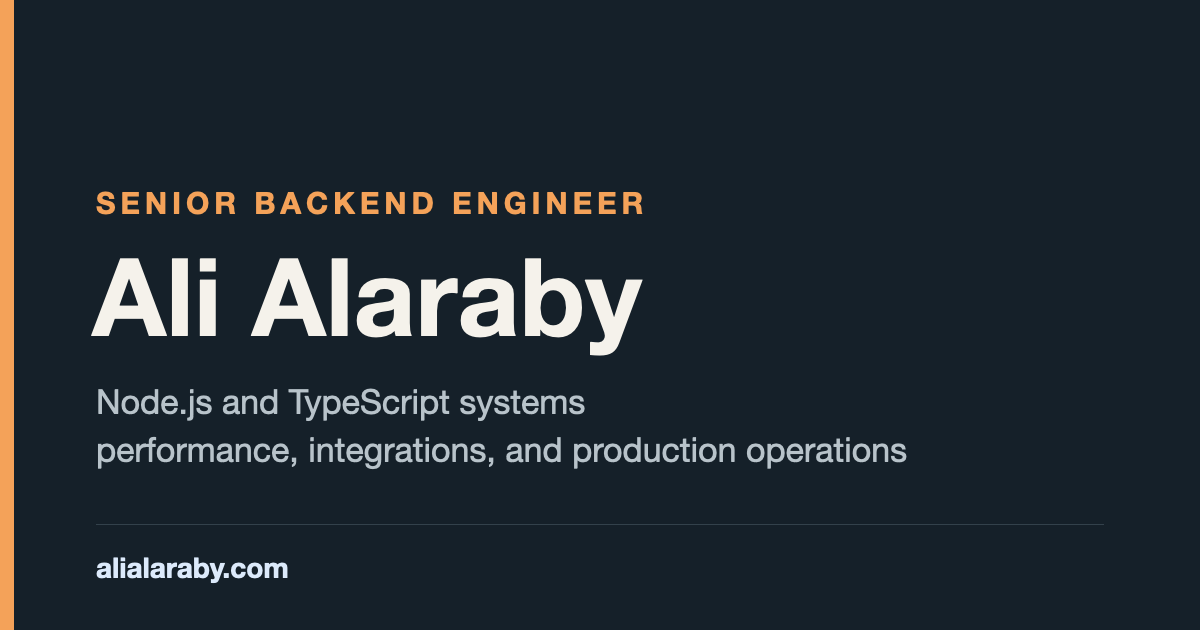
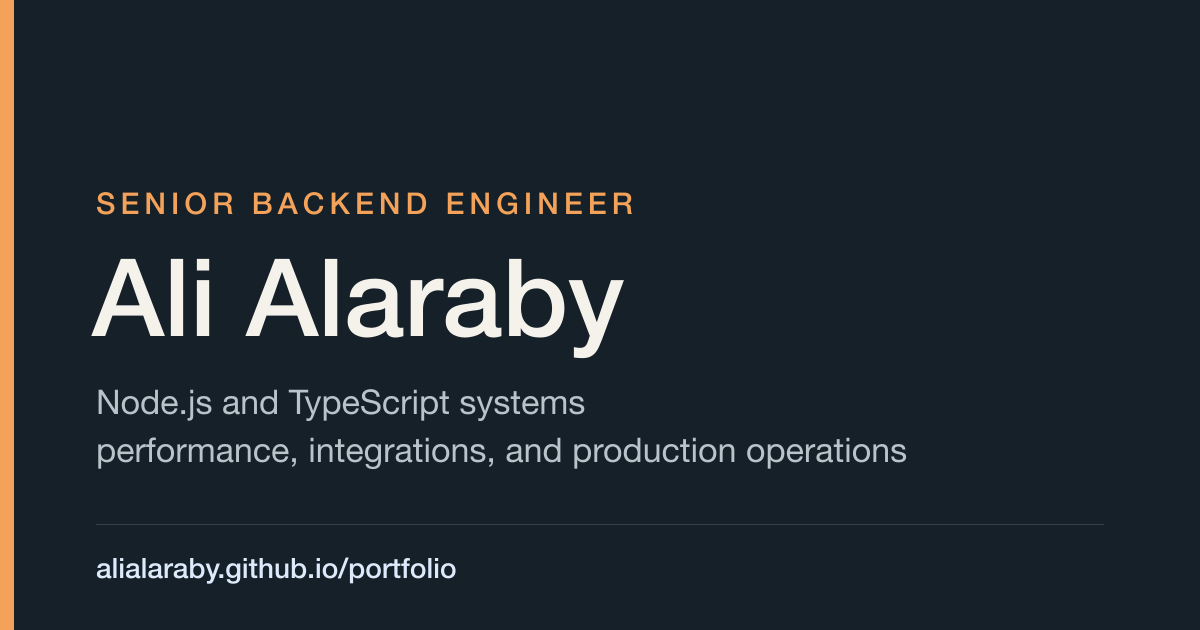
feat: update site configuration for GitHub Pages deployment and adjust related documentation

diff --git a/tests/seo.test.ts b/tests/seo.test.ts
@@ -4,7 +4,7 @@ import { join, relative, resolve, sep } from "node:path";
 import { JSDOM } from "jsdom";
 import { describe, expect, it } from "vitest";
 
-import { site } from "../src/config/site";
+import { absoluteUrl, site } from "../src/config/site";
 
 const distDir = resolve("dist");
 const siteUrl = new URL(site.url);
@@ -97,7 +97,7 @@ describe.skipIf(!buildExists())("built SEO and discovery", () => {
 
     for (const file of contentPages) {
       const document = parseHtml(file);
-      const canonical = new URL(toRoute(file), siteUrl).href;
+      const canonical = absoluteUrl(toRoute(file));
 
       expect(
         document.querySelector('link[rel="canonical"]')?.getAttribute("href"),
@@ -171,7 +171,7 @@ describe.skipIf(!buildExists())("built SEO and discovery", () => {
       const article = blocks.find((data) =>
         typesOf(data).includes("TechArticle"),
       );
-      expect(article?.url, file).toBe(new URL(toRoute(file), siteUrl).href);
+      expect(article?.url, file).toBe(absoluteUrl(toRoute(file)));
       expect(article?.headline, file).toBe(
         document.querySelector("h1")?.textContent,
       );
@@ -194,7 +194,7 @@ describe.skipIf(!buildExists())("built SEO and discovery", () => {
       (match) => match[1] ?? "",
     );
     const expected = contentPages
-      .map((file) => new URL(toRoute(file), siteUrl).href)
+      .map((file) => absoluteUrl(toRoute(file)))
       .sort();
     expect([...locs].sort()).toEqual(expected);
 

diff --git a/src/config/site.ts b/src/config/site.ts
@@ -3,13 +3,24 @@ export const site = {
   title: "Ali Alaraby — Senior Backend Engineer",
   description:
     "Senior Backend Engineer with 6+ years of experience building and improving Node.js and TypeScript systems across performance, integrations, and production operations.",
-  url: "https://alialaraby.com",
+  origin: "https://alialaraby.github.io",
+  basePath: "/portfolio",
+  url: "https://alialaraby.github.io/portfolio/",
   locale: "en",
   ogImage: {
-    path: "/og/ali-alaraby-og.png",
+    path: "og/ali-alaraby-og.png",
     width: 1200,
     height: 630,
     alt: "Ali Alaraby — Senior Backend Engineer",
     type: "image/png",
   },
 } as const;
+
+export const withBasePath = (path = "/"): string => {
+  if (path === site.basePath || path.startsWith(`${site.basePath}/`))
+    return path;
+  return `${site.basePath}/${path.replace(/^\//, "")}`;
+};
+
+export const absoluteUrl = (path = "/"): string =>
+  new URL(withBasePath(path), `${site.origin}/`).href;

diff --git a/src/pages/sitemap.xml.ts b/src/pages/sitemap.xml.ts
@@ -1,16 +1,15 @@
 import { getCollection } from "astro:content";
 import type { APIRoute } from "astro";
-import { site } from "../config/site";
+import { absoluteUrl } from "../config/site";
 
-export const GET: APIRoute = async ({ site: siteUrl }) => {
-  const base = siteUrl ?? new URL(site.url);
+export const GET: APIRoute = async () => {
   const entries = (await getCollection("caseStudies")).sort(
     (left, right) => left.data.order - right.data.order,
   );
 
   const paths = ["/", ...entries.map((entry) => `${entry.data.route}/`)];
   const urls = paths
-    .map((path) => `  <url><loc>${new URL(path, base).href}</loc></url>`)
+    .map((path) => `  <url><loc>${absoluteUrl(path)}</loc></url>`)
     .join("\n");
 
   const body = [

diff --git a/tests/config.test.ts b/tests/config.test.ts
@@ -8,6 +8,12 @@ describe("core configuration", () => {
     expect(config.output).toBe("static");
   });
 
+  it("targets the GitHub Pages project path", () => {
+    expect(config.site?.toString()).toBe("https://alialaraby.github.io");
+    expect(config.base).toBe("/portfolio");
+    expect(site.url).toBe("https://alialaraby.github.io/portfolio/");
+  });
+
   it("provides non-empty site metadata", () => {
     expect(site.title).toContain("Senior Backend Engineer");
     expect(site.description.length).toBeGreaterThan(80);

diff --git a/src/styles/global.css b/src/styles/global.css
@@ -13,7 +13,8 @@
 
 @font-face {
   font-family: "IBM Plex Mono";
-  src: url("/fonts/ibm-plex/ibm-plex-mono-regular-latin1.woff2") format("woff2");
+  src: url("/fonts/ibm-plex/ibm-plex-mono-regular-latin1.woff2")
+    format("woff2");
   font-display: swap;
   font-style: normal;
   font-weight: 400;

diff --git a/astro.config.ts b/astro.config.ts
@@ -1,7 +1,8 @@
 import { defineConfig } from "astro/config";
 
 export default defineConfig({
-  site: "https://alialaraby.com",
+  site: "https://alialaraby.github.io",
+  base: "/portfolio",
   output: "static",
   build: { format: "directory" },
   devToolbar: { enabled: false },

diff --git a/tests/performance.test.ts b/tests/performance.test.ts
@@ -133,7 +133,6 @@ describe.skipIf(!buildExists())("built performance and artifacts", () => {
       /^og\/[\w.-]+\.(png|svg)$/,
       /^robots\.txt$/,
       /^sitemap\.xml$/,
-      /^CNAME$/,
     ];
 
     for (const file of files) {

diff --git a/docs/deployment.md b/docs/deployment.md
@@ -11,8 +11,9 @@ builds `dist`, uploads the official Pages artifact, and deploys it with GitHub's
 action. Every third-party action is pinned to an immutable commit SHA. The workflow can run only
 from `main`, requires the `confirm_production` input, and does not run automatically on pushes.
 
-`public/CNAME` places `alialaraby.com` in the generated artifact. The repository Pages setting is
-still authoritative: the file alone does not register or verify the domain.
+Astro's `site` and `base` settings target `https://alialaraby.github.io/portfolio/`. Internal links,
+fonts, metadata, sitemap, robots policy, and the share card all use that project path. No custom
+domain or `CNAME` file is configured.
 
 GitHub Pages provides one production environment for this repository, not a separate native preview
 URL. Review pull-request CI and the local production build before the first manual deployment. Later
@@ -24,17 +25,14 @@ changes should follow the same sequence: pull request, green quality checks, mer
 2. Open the repository on GitHub and go to **Settings → Pages**.
 3. Under **Build and deployment**, set **Source** to **GitHub Actions**. Do not select a branch-based
    publishing source and do not add another generated workflow.
-4. Under **Custom domain**, enter `alialaraby.com` and save it. At the DNS provider, create the exact
-   apex records GitHub currently documents, plus the documented `www` CNAME to
-   `alialaraby.github.io` if `www.alialaraby.com` should redirect to the apex.
-5. Wait for GitHub's DNS check to succeed. The site uses root-relative assets for this approved
-   domain, so do not use the `/portfolio` project URL as a substitute deployment target.
-6. Open **Settings → Environments → github-pages** after GitHub creates it. Restrict deployments to
+4. Remove `alialaraby.com` from **Custom domain** and leave the field empty. No DNS configuration is
+   required for the GitHub-provided project domain.
+5. Open **Settings → Environments → github-pages** after GitHub creates it. Restrict deployments to
    `main`; optionally add required reviewers if your GitHub plan supports them.
-7. Open **Actions → Deploy GitHub Pages → Run workflow**. Select `main`, enable
+6. Open **Actions → Deploy GitHub Pages → Run workflow**. Select `main`, enable
    `confirm_production`, and run it.
-8. Wait for both the `build` and `deploy` jobs to pass, then verify `https://alialaraby.com`.
-9. Enable **Enforce HTTPS** after GitHub issues the certificate, then complete the checklist below.
+7. Wait for both jobs to pass, then verify `https://alialaraby.github.io/portfolio/` and complete the
+   checklist below. GitHub serves its own domain over HTTPS automatically.
 
 No personal access token or repository secret is required. The workflow uses GitHub's short-lived
 OIDC token and grants write permissions only to the deployment job.
@@ -44,22 +42,18 @@ OIDC token and grants write permissions only to the deployment job.
 - [ ] `/`, all three `/work/` routes, and an unknown route render correctly.
 - [ ] `sitemap.xml`, `robots.txt`, the Open Graph image, fonts, and the versioned CV return `200`.
 - [ ] The unknown route returns `404` and contains `noindex, follow`.
-- [ ] Canonical and Open Graph URLs use `https://alialaraby.com`.
+- [ ] Canonical and Open Graph URLs use `https://alialaraby.github.io/portfolio/`.
 - [ ] Email, GitHub, LinkedIn, project, previous/next, and CV links work.
 - [ ] Responsive checks pass at 320, 480, 768, 1024, and 1440 px.
 - [ ] Keyboard navigation, skip link, visible focus, 200% zoom, and reduced motion remain usable.
 - [ ] Chromium and WebKit smoke checks pass.
 - [ ] Lighthouse scores are at least 95 in all four categories on `/` and one case study.
 
-## Custom-domain verification
+## Future custom domain
 
-Use GitHub's current DNS values displayed in Settings rather than copying old addresses from a
-guide. DNS propagation and certificate issuance can take time. After deployment, verify HTTP-to-HTTPS
-behavior, apex and `www`, all routes and assets, the CV, `robots.txt`, and `sitemap.xml`. Confirm
-there is no redirect loop.
-
-The canonical URL is already `https://alialaraby.com`, so the temporary `github.io` URL should not
-be submitted to search engines.
+If a domain is purchased later, update `site` and `base` in `astro.config.ts`, `src/config/site.ts`,
+root-relative font paths, robots metadata, and the share card together. Add the custom domain in
+Pages settings and follow GitHub's current DNS instructions before changing canonical URLs.
 
 ## Rollback
 
@@ -68,15 +62,13 @@ GitHub Pages deployments are tied to workflow runs and commits. If a later launc
 1. Revert the faulty commit through a pull request and run the quality workflow.
 2. Merge the revert, then manually run **Deploy GitHub Pages** from `main` again.
 3. Verify the homepage, one case study, CV, sitemap, custom domain, and HTTPS.
-4. If the first custom-domain launch itself is unsafe, remove the custom domain in Pages settings and
-   restore the DNS records recorded immediately before cutover while the corrective PR is prepared.
 
 Do not force-push `main`, delete successful workflow runs, or bypass the quality gate during a
 rollback.
 
 ## Current state
 
-- GitHub Pages workflow and custom-domain artifact: ready locally.
+- GitHub Pages project-site workflow and `/portfolio` base-path support: ready locally.
 - Repository Pages source and `github-pages` environment: owner setup pending.
 - First manual deployment: pending.
-- Custom-domain DNS and HTTPS: pending owner configuration before the first deployment.
+- GitHub Pages custom-domain field: owner must remove the unavailable domain before deployment.

diff --git a/docs/decisions.md b/docs/decisions.md
@@ -216,8 +216,9 @@
 
 - **Context:** Phase 9 requires unique metadata, canonical and social presentation, valid sitemap and
   robots behavior, and honest structured data. The approved production domain
-  (`https://alialaraby.com`) and a social card are now available, and the project still avoids
-  runtime dependencies and WordPress-style plugins.
+  (`https://alialaraby.com`) was initially proposed and a social card was available, and the project
+  still avoids runtime dependencies and WordPress-style plugins. D016 later records the GitHub Pages
+  URL selected when the proposed domain proved unavailable.
 - **Selected:** Record the domain once in `src/config/site.ts` and `astro.config.ts`. Emit canonical,
   Open Graph, and Twitter metadata from `BaseLayout.astro`. Add a dependency-free `sitemap.xml`
   endpoint driven by the case-study collection and a static `robots.txt`. Publish JSON-LD as
@@ -260,11 +261,13 @@
 - **Selected:** Use a dedicated, manually dispatched GitHub Actions workflow that can run only from
   `main` with an affirmative production input. It repeats all quality checks, builds `dist`, and uses
   immutable commits of GitHub's official configure, artifact, and deploy actions. Commit the approved
-  apex domain as `public/CNAME`; keep Pages settings, deployment, DNS, and HTTPS as owner steps.
+  GitHub project URL as the canonical base; keep Pages settings and deployment as owner steps.
 - **Alternatives:** Branch-based publishing was rejected because it needs generated output committed
   to the repository; automatic deployment on every push was rejected because production requires an
   explicit owner action; Vercel was started but abandoned before authentication or external changes.
 - **Consequences:** Deployment intent is reviewable and no long-lived credential is required. GitHub
   Pages offers no separate native preview URL for this repository, so green pull-request CI and the
   locally reviewed production artifact are the pre-deployment gate. Pages settings, the first manual
-  run, DNS, HTTPS, WebKit, and live endpoint checks remain owner-controlled external steps.
+  run, WebKit, and live endpoint checks remain owner-controlled external steps. A later review found
+  that the proposed custom domain was unregistered, so the initial launch uses
+  `https://alialaraby.github.io/portfolio/` with explicit base-path handling and no `CNAME`.

diff --git a/docs/roadmap.md b/docs/roadmap.md
@@ -346,10 +346,11 @@ Evidence in progress:
 
 - Manually dispatched `.github/workflows/pages.yml` builds, revalidates, uploads, and deploys the
   site using immutable pins for GitHub's official Pages actions
-- `public/CNAME` carries the approved apex domain in the generated artifact
+- Astro, application links, fonts, metadata, sitemap, robots, and social artwork target the GitHub
+  project URL at `https://alialaraby.github.io/portfolio/`
 - [GitHub Pages setup, domain, launch-verification, and rollback runbook](deployment.md)
-- Current-state check confirmed that the production domain does not yet return public A or CNAME
-  records; repository settings and DNS remain owner actions
+- The unavailable custom domain was removed; clearing it in repository Pages settings and running
+  the first deployment remain owner actions
 
 ## Post-launch backlog
 
@@ -448,5 +449,6 @@ Potential work only after launch evidence justifies it:
 - **17 September 2026 — Phase 11 started:** created `feat/phase-11-deployment-launch` from current
   `main`; added a manually authorized GitHub Pages workflow, custom-domain artifact, and
   deployment/domain/rollback runbook. Confirmed that no environment variables or repository secrets
-  are required and the approved domain has no public A or CNAME response yet. Repository settings,
-  the first deployment, DNS, and HTTPS remain explicit owner actions.
+  are required. After confirming the proposed custom domain was unavailable, retargeted the complete
+  site to `https://alialaraby.github.io/portfolio/` and removed the DNS/custom-domain artifact.
+  Repository Pages settings and the first deployment remain explicit owner actions.

diff --git a/docs/seo.md b/docs/seo.md
@@ -1,7 +1,7 @@
 # SEO and discovery
 
 Search and social metadata for the static portfolio, verified in Phase 9. The production domain is
-`https://alialaraby.com`, recorded once in `src/config/site.ts` and `astro.config.ts`.
+`https://alialaraby.github.io/portfolio/`, recorded in `src/config/site.ts` and `astro.config.ts`.
 
 ## Per-route metadata
 
@@ -59,7 +59,7 @@ case-study routes as absolute URLs in `order`, and deliberately excludes the 404
 User-agent: *
 Allow: /
 
-Sitemap: https://alialaraby.com/sitemap.xml
+Sitemap: https://alialaraby.github.io/portfolio/sitemap.xml
 ```
 
 ## Link verification
@@ -78,8 +78,8 @@ Re-confirm the two bot-protected links in a browser at launch.
 
 ## Known limitations
 
-- The production domain is not serving yet; deployment and DNS are Phase 11. Canonical, Open Graph,
-  and sitemap URLs use the approved domain and will resolve once it is live.
+- The GitHub Pages project URL is not serving yet; deployment is Phase 11. Canonical, Open Graph,
+  and sitemap URLs include the required `/portfolio` base path.
 - Structured data is validated structurally (types, URLs, headings, breadcrumb length); it is not
   submitted to or parsed by a search engine in this phase.
 - No `hreflang`, RSS, or localization metadata exists because the site is English-only.

diff --git a/docs/content-review.md b/docs/content-review.md
@@ -184,7 +184,7 @@ Review date: 17 September 2026
 - [x] The approved destinations were checked: GitHub returned 200; npm and LinkedIn blocked scripted
       requests and are flagged for a browser re-check at launch in [seo.md](seo.md).
 - [x] Canonical, Open Graph, and sitemap URLs use the owner-approved domain
-      `https://alialaraby.com`, which goes live in Phase 11.
+      `https://alialaraby.github.io/portfolio/`, selected for the initial Phase 11 launch.
 
 ## Phase 10 production hygiene review
 
